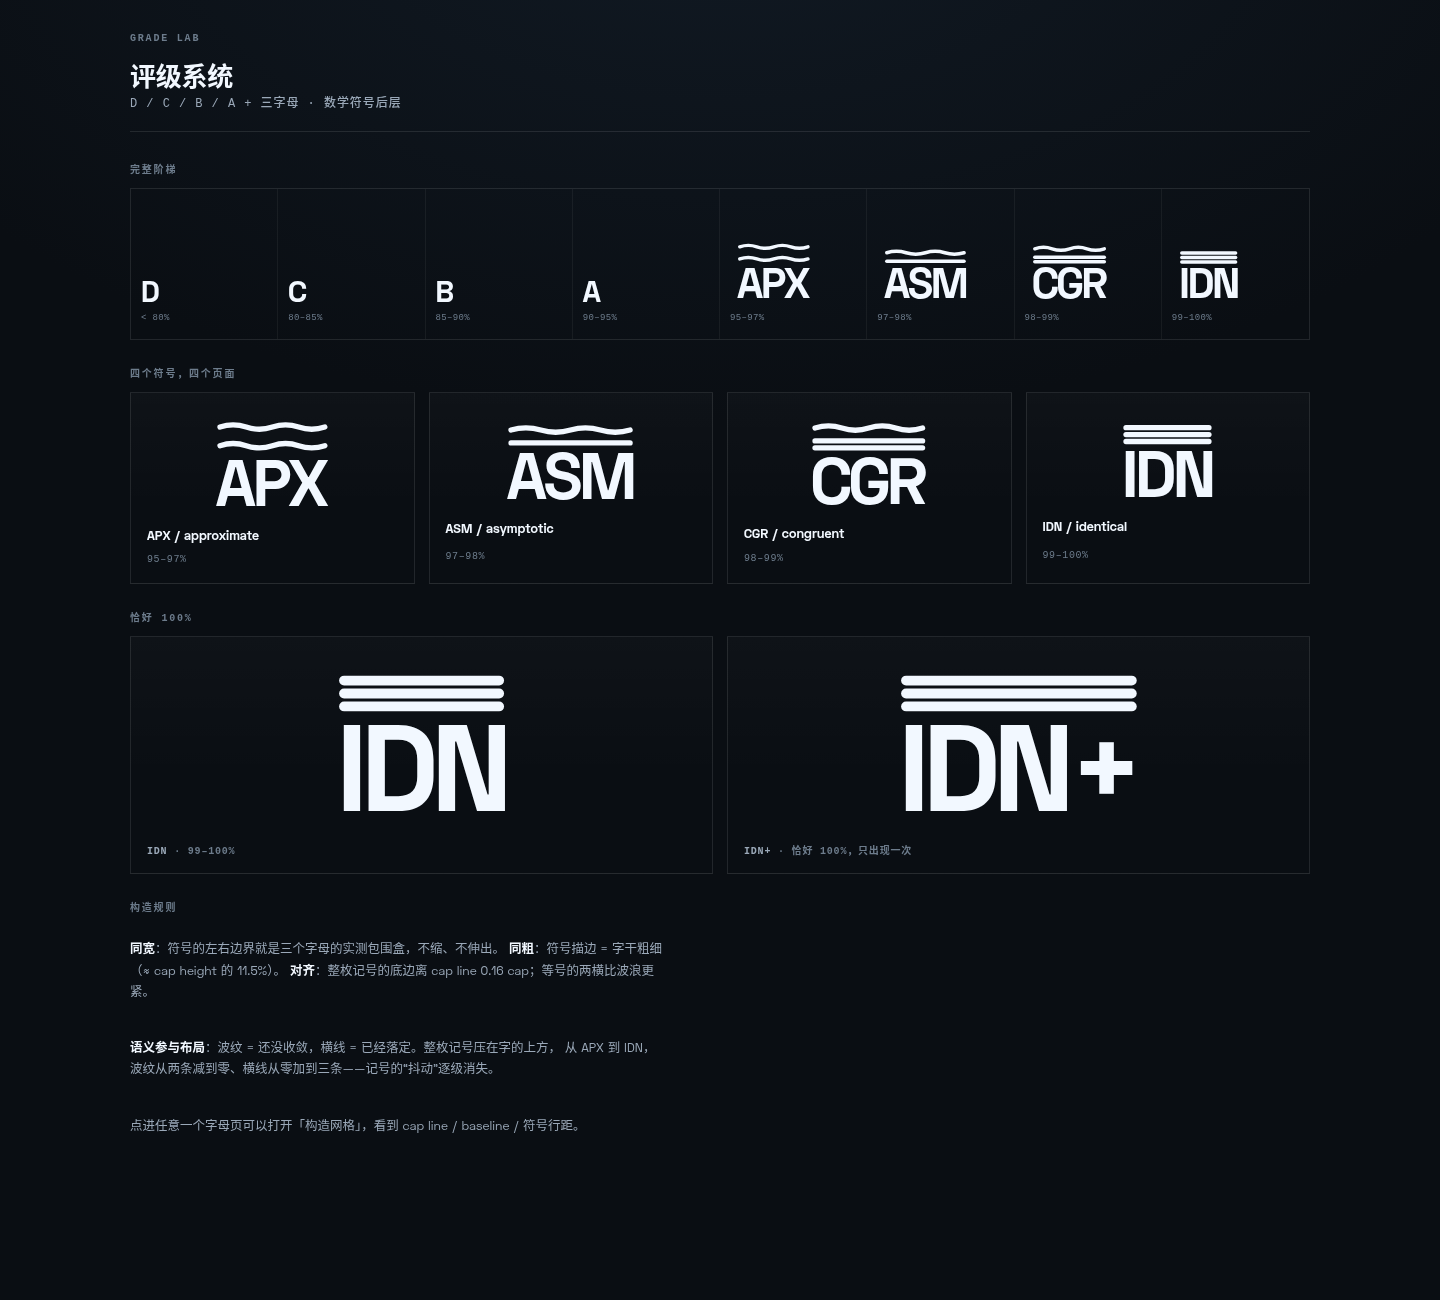
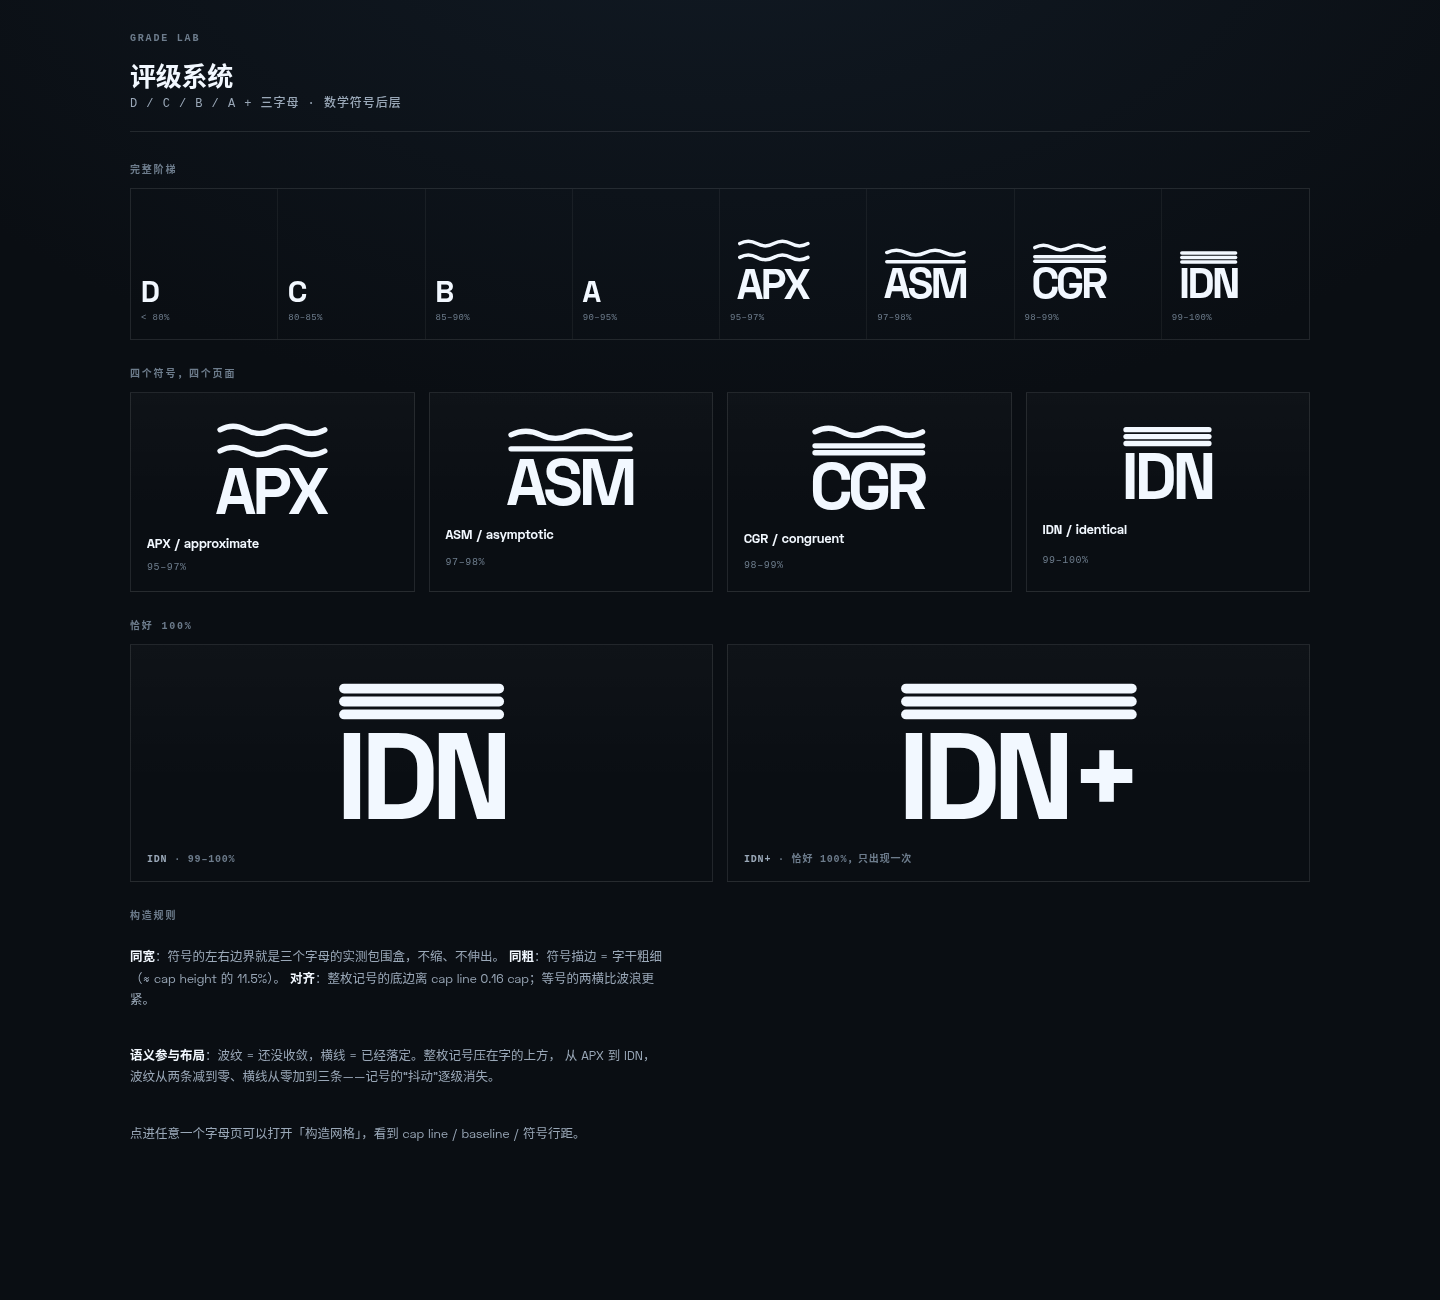
design(grade-lab): equal ink gaps, stronger wave curve

diff --git a/design/grade-lab/lockup.js b/design/grade-lab/lockup.js
@@ -14,25 +14,13 @@
 // gapBelow = 这一行与它下面一行的**墨迹**间隙（cap height 的倍数）。
 // 量墨迹而不是量中心线：波浪加振幅时，它和下面那条线/字母的视觉间距才不会变。
 export const SYMBOLS = {
-  APX: [
-    { kind: 'wave', gapBelow: 0.1 },
-    { kind: 'wave' },
-  ],
-  ASM: [
-    { kind: 'wave', gapBelow: 0.07 },
-    { kind: 'line' },
-  ],
-  CGR: [
-    { kind: 'wave', gapBelow: 0.07 },
-    { kind: 'line', gapBelow: 0.035 },
-    { kind: 'line' },
-  ],
-  IDN: [
-    { kind: 'line', gapBelow: 0.035 },
-    { kind: 'line', gapBelow: 0.035 },
-    { kind: 'line' },
-  ],
+  // 所有行共用同一个墨迹间隙：波浪之间、波浪与横线之间、横线之间，视觉上完全一致。
+  APX: [{ kind: 'wave' }, { kind: 'wave' }],
+  ASM: [{ kind: 'wave' }, { kind: 'line' }],
+  CGR: [{ kind: 'wave' }, { kind: 'line' }, { kind: 'line' }],
+  IDN: [{ kind: 'line' }, { kind: 'line' }, { kind: 'line' }],
 };
+
 
 const SVG_NS = 'http://www.w3.org/2000/svg';
 
@@ -78,7 +66,7 @@ export function renderLockup(host, opts) {
 
   // —— 2. 从字体里取网格 ——
   const stem = cap * 0.115; // 和 800 字重的字干接近
-  const amp = cap * 0.095; // 波纹振幅（够大才读得出是波浪，不是装饰线）
+  const amp = cap * 0.155; // 波纹振幅（曲线要明显，才不是装饰线）
   const gapToWord = cap * 0.16; // 最下面一行墨迹到 cap line 的距离
   const inset = stem * 0.75; // 视觉宽度：记号比字略窄，A / X 这类斜边才不会被记号压住
 
@@ -99,7 +87,7 @@ export function renderLockup(host, opts) {
 
   // 每一行的墨迹半高
   const half = rows.map((row) => (row.kind === 'wave' ? amp + stem / 2 : stem / 2));
-  const gapBelow = rows.map((row) => cap * (row.gapBelow ?? 0.05));
+  const gapBelow = rows.map(() => cap * 0.035); // 统一墨迹间隙（和等号两横一致）
 
   // 从下往上：最下面一行离字 gapToWord，其余按墨迹间隙叠上去。
   const stackAbove = [];

diff --git a/prototype/FUTURE.md b/prototype/FUTURE.md
@@ -68,8 +68,8 @@
   样张在 [`../design/grade-lab/`](../design/grade-lab/)：每个符号单独一页，符号是自绘 SVG，
   波纹逐级消失（`≈` 两波 → `≃` 一波一横 → `≅` 一波两横 → `≡` 三横），不依赖字体覆盖。
 - **锁版规则**：符号与字同宽（取字母实测包围盒，再收半个描边做视觉修正）、描边 = 字干
-  （cap height 的 11.5%）、记号底边离 cap line 0.16 cap；行距一律量**墨迹间隙**
-  （波浪间 10%、波浪到横线 5%、横线间 3.5%），波纹振幅 9.5% cap。
+  （cap height 的 11.5%）、记号底边离 cap line 0.16 cap；每一行之间统一 3.5% cap 的
+  **墨迹间隙**（波浪之间、波浪与横线、横线之间完全一致），波纹振幅 15.5% cap。
   默认摆法是「整枚记号压在字上方」。
 - 恰好 100% 记为 **`IDN+`**（`IDN` 覆盖 99–100%，`IDN+` 只在满分时出现）。
 - 字母词表待定（当前提案 `APX / ASM / CGR / IDN`）。

diff --git a/design/grade-lab/README.md b/design/grade-lab/README.md
@@ -30,8 +30,8 @@
 | --- | --- |
 | 同宽 | 符号左右边界 = 三个字母的包围盒（再收半个描边做视觉修正） |
 | 同粗 | 描边 = 字干粗细（≈ cap height 的 11.5%） |
-| 对齐 | 记号底边离 cap line 0.16 cap；行距按**墨迹间隙**给（波浪间 10%、波浪到横线 5%、横线间 3.5%） |
-| 振幅 | 波纹 9.5% cap：太小会读成装饰线，太大会压住字 |
+| 对齐 | 记号底边离 cap line 0.16 cap；每一行之间统一 **3.5% cap 墨迹间隙**（波浪之间、波浪与横线、横线之间完全一致） |
+| 振幅 | 波纹 15.5% cap：太小会读成装饰线 |
 
 符号也是自绘 SVG：`≈` 两波 → `≃` 一波一横 → `≅` 一波两横 → `≡` 三横。
 波纹逐级消失，等于“误差在收敛”这件事本身。不依赖字体覆盖。
